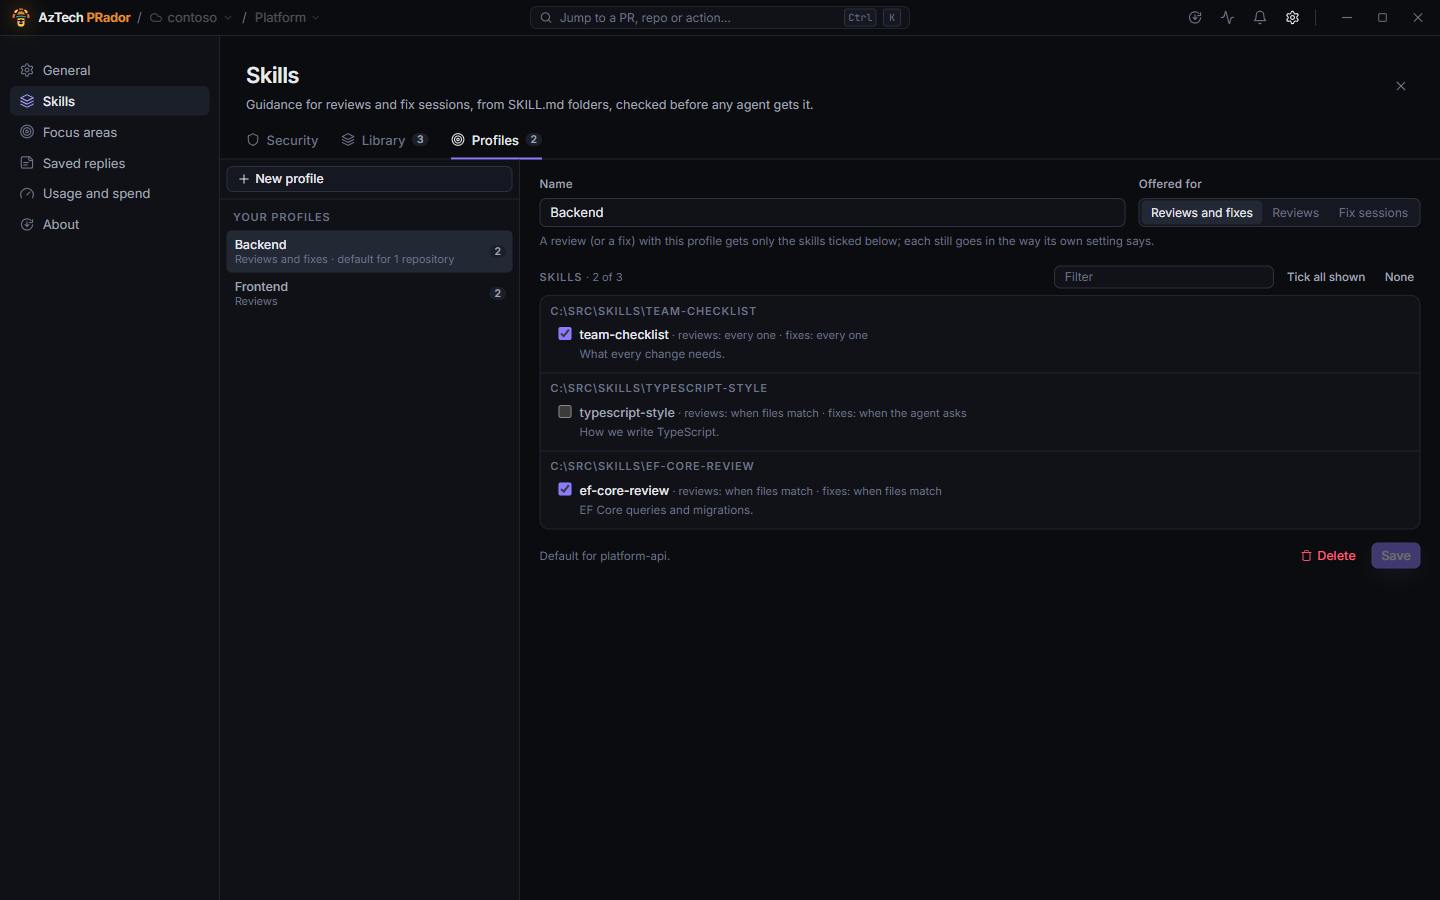
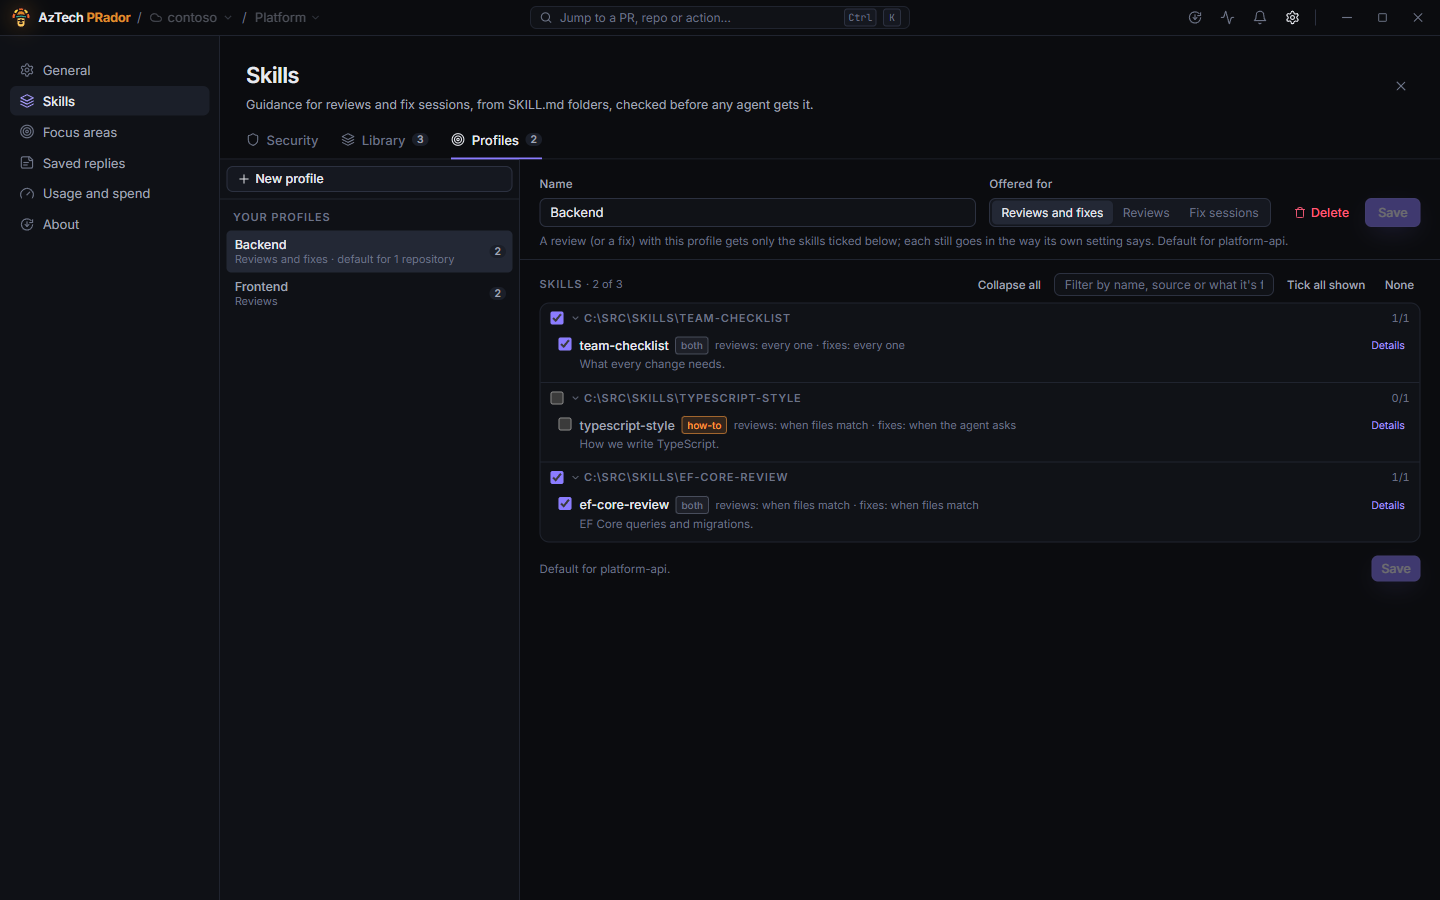
User guide for 0.10.52

diff --git a/docs/how-to/skills.md b/docs/how-to/skills.md
@@ -90,7 +90,7 @@ A review's log says which skills it got (**Skills: …**), which the agent could
 
 ## Profiles
 
-A **profile** is a named set of skills a review (or a fix session) is narrowed to: only the skills in it may go, and each still goes the way its own setting says (every review, when files match, when the agent asks). Make them on the **Profiles** tab of Settings → Skills: a name, what it's offered for (reviews, fix sessions or both), and the skills ticked from the library, with a filter box and **Tick all shown** for a long one.
+A **profile** is a named set of skills a review (or a fix session) is narrowed to: only the skills in it may go, and each still goes the way its own setting says (every review, when files match, when the agent asks). Make them on the **Profiles** tab of Settings → Skills: a name, what it's offered for (reviews, fix sessions or both), and the skills ticked from the library. The list folds per source (a plugin, a folder), each with a box for the lot and **Collapse all** for a library of many; a filter box and **Tick all shown** narrow it; **Details** on a skill shows what the library knows of it: what it reads as, what the scan and an agent suggest, its patterns, and whether the security check holds it back. The name, what it's for and **Save** stay at the top while the list scrolls.
 
 ![Settings → Skills → Profiles: a profile, and the skills in it](../images/skill-profiles.png)
 
